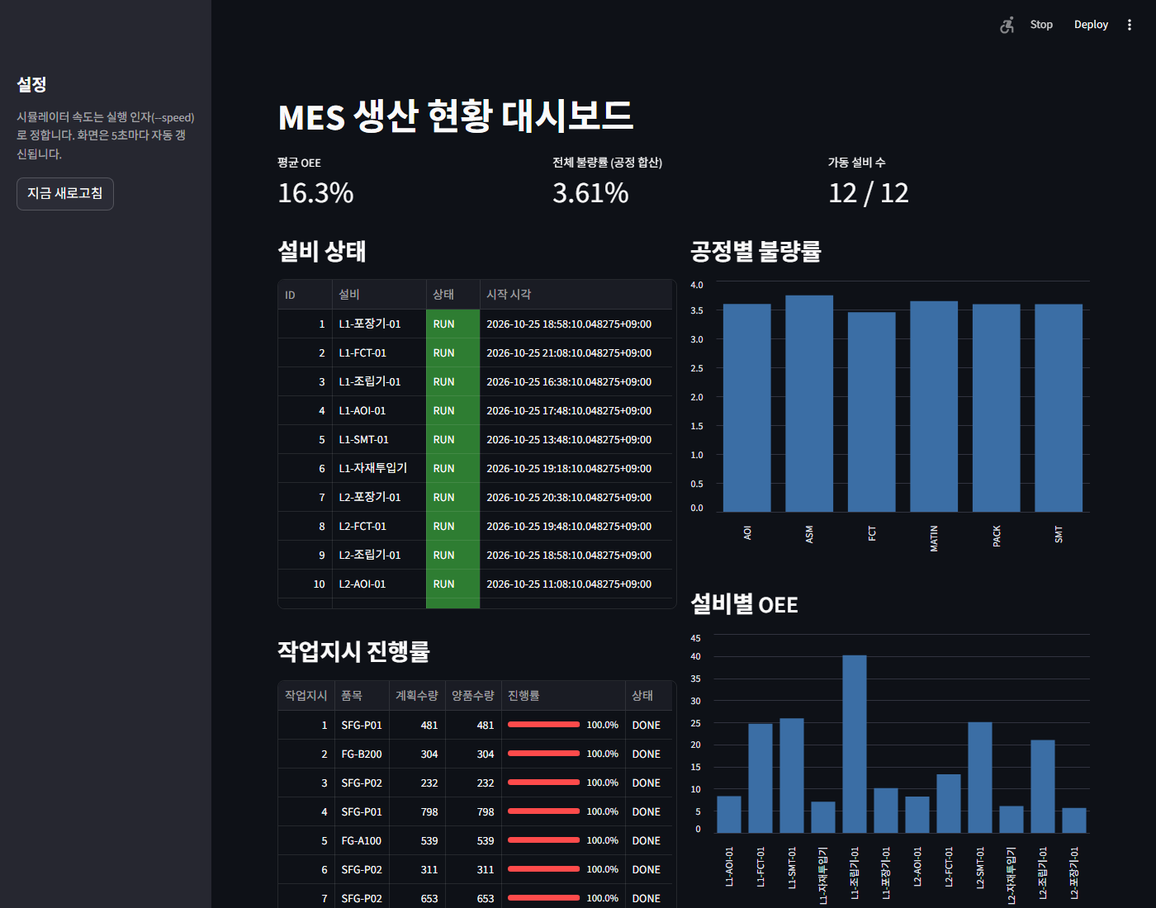
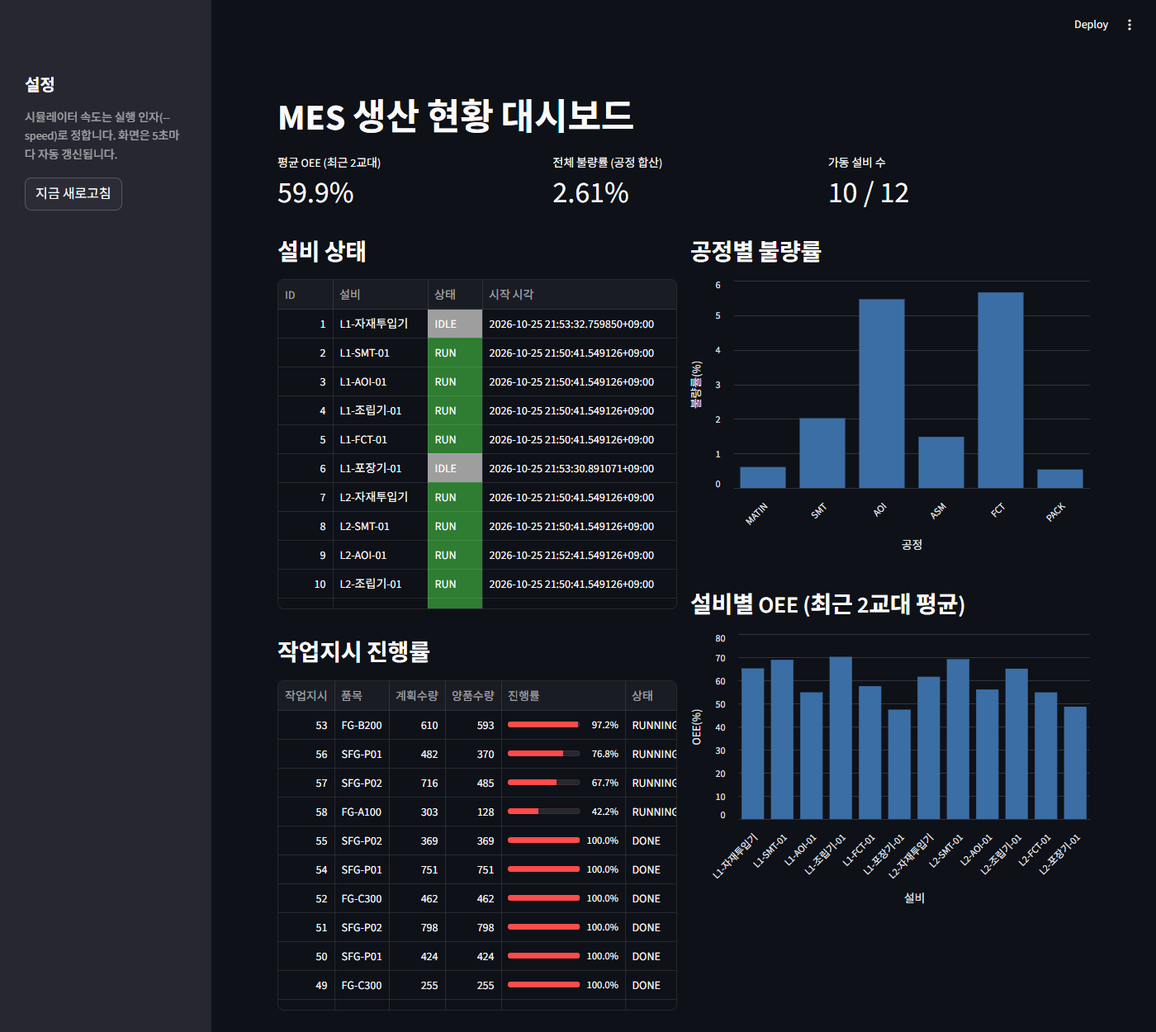
docs: README/ERD for clock rule, time zone, lineage, OEE scope; new screenshot
- README: simulator clock semantics, Asia/Seoul time zone, FIFO lineage,
  corrected OEE limitation text, LOT examples from the final demo run
- ERD: effective shift window (now() cap), NULL quality, one-open-log index,
  simulator model and genealogy rules
- dashboard: keep every x-axis label (labelOverlap=False); retaken screenshot

Changed region(s): [[0.2457, 0.0927, 0.9521, 1.0], [0.0, 0.0618, 0.1843, 0.2164], [0.8907, 0.0, 0.9521, 0.0309]]

diff --git a/dashboard/app.py b/dashboard/app.py
@@ -48,7 +48,7 @@ def render_kpis(kpi: dict) -> None:
 def _bar(df: pd.DataFrame, x: str, x_title: str, y_title: str) -> alt.Chart:
     """막대 차트. x 축은 SQL 이 정한 행 순서(라인 → 공정 순)를 그대로 쓴다 (알파벳 정렬 방지)."""
     return (alt.Chart(df).mark_bar(color=BAR_COLOR)
-            .encode(x=alt.X(f"{x}:N", sort=None, title=x_title, axis=alt.Axis(labelAngle=-45)),
+            .encode(x=alt.X(f"{x}:N", sort=None, title=x_title, axis=alt.Axis(labelAngle=-45, labelOverlap=False)),
                     y=alt.Y("v:Q", title=y_title),
                     tooltip=[alt.Tooltip(f"{x}:N", title=x_title),
                              alt.Tooltip("v:Q", title=y_title, format=".1f")]))

diff --git a/README.md b/README.md
@@ -33,7 +33,7 @@ flowchart LR
 
 ![MES 대시보드](docs/screenshots/dashboard.png)
 
-시뮬레이터(`--once 300`, 속도 600배)로 채운 뒤 캡처한 실제 화면입니다(가상 데이터). 설비 상태, 작업지시 진행률, 공정별 불량률, 설비별 OEE 와 상단 KPI 카드가 보입니다. 화면 하단에 LOT 추적 입력란이 더 있습니다.
+시뮬레이터로 약 50시간(`--once 300`, 틱 10분)을 채운 뒤 연속 모드(`--speed 60`)를 켜둔 상태에서 캡처한 실제 화면입니다(가상 데이터). 상단 KPI 카드(최근 2교대 평균 OEE, 전체 불량률, 가동 설비 수), 설비 상태(라인 → 공정 순), 작업지시 진행률(진행 중 우선), 공정별 불량률, 설비별 OEE 가 보입니다. 화면 하단에 LOT 추적 입력란이 더 있습니다.
 
 ## 프로젝트 구조
 
@@ -48,7 +48,7 @@ flowchart LR
 ├── dashboard/                     # Streamlit 앱(app.py)과 조회 함수(queries.py)
 ├── mes/db.py                      # DATABASE_URL 연결 헬퍼
 ├── scripts/                       # init_db.py, create_dbs.sql, docker_init_test_db.sh
-├── tests/                         # pytest 44개 (mes_test DB 사용)
+├── tests/                         # pytest 66개 (mes_test DB 사용)
 ├── docs/                          # erd.md, performance.md, screenshots/
 ├── docker-compose.yml             # PostgreSQL 16 (Docker 경로)
 ├── requirements.txt
@@ -75,6 +75,8 @@ docker compose up -d
 ```
 `docker-compose.yml` 이 `mes` 사용자/DB(비밀번호 `mes`)를 만들고, 최초 기동 시 `scripts/docker_init_test_db.sh` 가 `mes_test` DB 를 추가합니다.
 
+**시간대**: 교대(주간 08–20, 야간 20–08)는 한국 시간 기준입니다. `postgres` Docker 이미지의 기본 시간대는 UTC 이므로 `docker-compose.yml` 에서 `TZ`/`PGTZ`/`timezone` 을 `Asia/Seoul` 로 고정했고, `scripts/create_dbs.sql`·Docker 초기화 스크립트도 두 DB 의 기본 시간대를 `Asia/Seoul` 로 설정합니다. 무엇보다 `mes/db.py` 의 `connect()` 가 세션마다 `TimeZone = Asia/Seoul` 을 지정하므로, 서버 설정과 관계없이 시뮬레이터의 교대 배정과 뷰의 교대 창 계산이 같은 시간대를 씁니다. 시뮬레이터도 시각을 KST(UTC+9)로 다룹니다.
+
 ### 2. Python 패키지
 ```powershell
 pip install -r requirements.txt
@@ -96,9 +98,9 @@ export DATABASE_URL=postgresql://mes:mes@localhost:5432/mes
 # (1) 스키마·시드 적용. --reset 은 public 스키마를 DROP 후 다시 만든다 (개발 DB 데이터 삭제)
 python scripts/init_db.py --reset
 
-# (2) 데이터 채우기: 빠르게 300틱(속도 600배)을 한 번에 채우고 종료
+# (2) 데이터 채우기: 지금까지의 약 50시간(10분 틱 300개)을 한 번에 채우고 종료
 python -m simulator.simulate --speed 600 --seed 42 --once 300
-#     또는 실시간에 가깝게 계속 적재 (Ctrl+C 로 중단, 실 1초당 시뮬 1분)
+#     또는 계속 적재 (Ctrl+C 로 중단): 현재 교대 시작(또는 DB 마지막 시각)부터 60배속으로 따라잡은 뒤 실시간 진행
 python -m simulator.simulate --speed 60 --seed 42
 
 # (3) 대시보드 (시뮬레이터를 켜둔 채 다른 터미널에서)
@@ -109,15 +111,25 @@ pytest
 ```
 `python` 이 동작하지 않는 환경(예: Windows 스토어 스텁)에서는 설치된 Python 의 전체 경로로 실행합니다.
 
-시뮬레이터 옵션: `--speed`(시뮬 시간/실시간 배율, 기본 60), `--seed`, `--once N`(N틱 실행 후 종료), `--tick`(실시간 틱 간격 초, 기본 1). 상태는 모두 DB 에 있어 재시작하면 DB 의 마지막 시각 이후부터 이어서 동작합니다.
+시뮬레이터 옵션: `--speed`(기본 60), `--seed`, `--once N`, `--tick`(기본 1초). 시계 규칙은 다음과 같습니다.
+
+- **시뮬 시각은 현재 시각(벽시계)을 넘지 않습니다.** 미래 시각의 데이터는 만들지 않으므로 대시보드 지표가 실제 시각과 어긋나지 않습니다.
+- 틱 길이 = `--tick x --speed` 시뮬 초 (기본 60초, `--speed 600` 이면 10분).
+- 시작점: 빈 DB 에서 `--once N` 은 "지금 - N틱" 부터 시작해 마지막 틱이 지금이 되고, 연속 모드는 현재 교대 시작 시각부터 채웁니다. DB 에 데이터가 있으면 마지막 시각부터 이어 갑니다.
+- 연속 모드: 현재 시각보다 뒤처져 있는 동안은 실시간 `--tick` 초마다 한 틱씩(= `--speed` 배속) 따라잡고, 따라잡은 뒤에는 실제 시간이 한 틱 길이만큼 흐를 때마다 한 틱을 진행합니다. 즉 `--speed` 는 따라잡는 속도와 틱 길이만 정합니다.
+- `--once N`: 최대 N틱을 기다림 없이 실행하고, 현재 시각에 닿으면 더 일찍 끝냅니다(예: 방금 채운 DB 에서 다시 실행하면 진행할 틱이 없음).
+- 정지: 정상 종료·Ctrl+C 시 진행 중 설비 로그를 마지막 시뮬 시각에 닫고 IDLE 로 남깁니다. 멈춰 있는 동안 RUN 시간이 쌓이지 않습니다(가동률은 정지 시간만큼 내려감). 오래 멈춘 뒤(마지막 시각이 시작점 이전) 재시작하면 마지막 시각에 설비를 정지 처리하고 시작점부터 새로 채웁니다. 프로세스를 강제 종료한 경우에는 `python -m simulator.simulate --once 1 --speed 600` 을 한 번 실행하면 진행할 틱 없이 정지 처리만 하고 끝납니다.
 
 `pytest` 는 `mes_test` DB 만 사용하며(세션 시작 시 그 DB 의 public 스키마를 비움), 개발 DB 는 건드리지 않습니다. 테스트는 `mes` 롤이 `mes_test` 에 접속할 수 있어야 하므로 1단계의 DB 생성이 필요합니다.
 
-LOT 추적을 해보려면 대시보드 화면 하단 "LOT 번호" 칸에 실제 LOT 번호를 넣습니다. 번호 형식은 생산 LOT `WO-<작업지시>-<공정코드>-<순번>`(예: `WO-26-PACK-10`), 원자재 LOT `RM-<품목코드>-WO<작업지시>`(예: `RM-RM-IC-WO1`)입니다. 직접 조회할 수도 있습니다.
+LOT 추적을 해보려면 대시보드 화면 하단 "LOT 번호" 칸에 실제 LOT 번호를 넣습니다. 번호 형식은 생산 LOT `WO-<작업지시>-<공정코드>-<순번>`(예: `WO-2-PACK-1`), 원자재(공급사) LOT `<품목코드>-<순번 4자리>`(예: `RM-IC-0001`)입니다. 직접 조회할 수도 있습니다.
 ```sql
-SELECT * FROM trace_backward('WO-26-PACK-10') ORDER BY depth, lot_no;
+-- 완제품 포장 LOT 의 투입 이력: 기능검사 → 조립 → AOI 를 통과한 반제품 LOT 2종 → SMT → 자재투입 → 원자재 공급사 LOT
+SELECT * FROM trace_backward('WO-2-PACK-1') ORDER BY depth, lot_no;
+-- 원자재 LOT 리콜 범위: 이 공급사 LOT 이 들어간 모든 하위 LOT
+SELECT * FROM trace_forward('RM-IC-0001') ORDER BY depth, lot_no;
 ```
-(LOT 번호는 시뮬레이터 실행마다 달라질 수 있으니 `SELECT lot_no FROM lot LIMIT 10;` 으로 확인하세요.)
+위 예시는 README 작성 시 데모 실행(`--seed 42 --once 300`)에서 확인한 값입니다. `trace_backward('WO-2-PACK-1')` 은 15행(depth 1–6)을 반환했고, depth 3 의 반제품 LOT 는 모두 AOI 공정 LOT(`WO-1-AOI-1`, `WO-3-AOI-1`)였습니다. `trace_forward('RM-IC-0001')` 은 생산 LOT 약 2,950개 중 1,088개를 반환했습니다(공급사 LOT 1개가 쓰인 기간의 하위 LOT 만). 시작 시각이 실행 시점에 따라 달라 LOT 번호와 행 수는 달라질 수 있으니 `SELECT lot_no FROM lot LIMIT 10;` 으로 확인하세요.
 
 ## SQL 하이라이트
 
@@ -156,18 +168,20 @@ select distinct on (l.lot_id) l.lot_no, i.item_code, l.supplier_lot_no, w.depth
 ```
 
 ### 3. OEE 뷰 — [`sql/04_views.sql`](sql/04_views.sql)
-`v_oee_daily` 는 설비 x 교대 x work_date 단위로 OEE = 가동률 x 성능률 x 품질률 을 계산합니다. 야간조의 자정 이후 구간은 교대가 시작된 전날 work_date 에 귀속시키고, 계획 비가동(점심·점검)은 계획시간에서 빼며, 교대 경계를 걸친 로그는 교대별로 잘라 계산합니다. 핵심 비율 계산부는 다음과 같습니다.
+`v_oee_daily` 는 설비 x 교대 x work_date 단위로 OEE = 가동률 x 성능률 x 품질률 을 계산합니다. 야간조의 자정 이후 구간은 교대가 시작된 전날 work_date 에 귀속시키고, 계획 비가동(점심·점검)은 계획시간에서 빼며, 교대 경계를 걸친 로그는 교대별로 잘라 계산합니다. 진행 중인 교대는 교대 창 끝 대신 `now()` 까지만 계획시간으로 보므로(유효 창 `LEAST(교대 끝, now())`), 교대 초반에도 가동률이 낮게 왜곡되지 않습니다. 생산수량이 0 인 행의 품질률은 정의되지 않으므로 NULL 입니다. 핵심 비율 계산부는 다음과 같습니다.
 
 ```sql
-SELECT e.equipment_id, e.name AS equipment_name, a.shift_name, a.work_date,
+SELECT e.equipment_id, e.name AS equipment_name, a.shift_name, a.work_date, a.wstart, a.wend,
        LEAST(1, COALESCE(a.run_sec / NULLIF(a.shift_sec - a.planned_down_sec, 0), 0)) AS availability,
        COALESCE(r.ideal_sec / NULLIF(a.run_sec, 0), 0)                      AS performance,
-       COALESCE(r.good_qty / NULLIF(r.good_qty + r.defect_qty, 0), 0)       AS quality
+       r.good_qty / NULLIF(r.good_qty + r.defect_qty, 0)                    AS quality
 FROM agg a
 JOIN equipment e ON e.equipment_id = a.equipment_id
 LEFT JOIN res r ON r.equipment_id = a.equipment_id AND r.shift_id = a.shift_id
                AND r.work_date = a.work_date
 ```
+
+대시보드의 "평균 OEE" 카드와 설비별 OEE 차트는 데이터가 있는 **최근 2개 교대 창(24시간)** 의 설비 x 교대 행 평균입니다(`dashboard/queries.py`, SQL 의 WHERE 로 범위 지정). 시뮬레이션 시작 무렵 일부만 덮인 첫 교대처럼 오래된 행이 평균을 왜곡하지 않게 하기 위해서입니다.
 
 같은 파일에 불량률·FTY(`v_defect_rate`), 작업지시 진행률(`v_wo_progress`), 설비 현재 상태(`v_equipment_current`)도 있습니다.
 
@@ -177,16 +191,17 @@ KPI 뷰에 실적 100,000행을 적재해 측정했습니다. `v_oee_daily` 가 
 
 ## 테스트
 
-`pytest` 44개 (`tests/`): 스키마·제약, 트리거(backflush, 초과생산, 재고 부족 롤백, 상태 전이), LOT 추적(순환 포함), 뷰(고정 시나리오, 야간조 귀속, 교대 경계 분할, 0 나눔), 시뮬레이터(seed 재현성, 재시작 멱등성, 재고 고갈), 대시보드 조회 함수.
+`pytest` 66개 (`tests/`): 스키마·제약(설비당 진행 중 로그 1개, 설비 ID 순서), 세션 시간대, 트리거(backflush, 초과생산, 재고 부족 롤백, 재고 행 없음 거부, 상태 전이), LOT 추적(순환 포함), 뷰(고정 시나리오, 야간조 귀속, 교대 경계 분할, 진행 중 교대의 now() 캡, 0 나눔·품질률 NULL), 시뮬레이터(seed 재현성, 라인별 작업지시, 일감 없을 때 자재대기, 완전한 교대의 성능률·OEE 범위, 검사 공정 불량 집중, LOT 계보가 라우팅을 따르는지, 교대 경계 실적 분할, 시계 규칙, 정지 처리, CLI 가 미래 시각을 쓰지 않는지), 대시보드 조회 함수(정렬, 최근 2교대 범위).
 
 ## 한계와 비목표
 
 - **가상 데이터 기반**: 실제 PLC/OPC-UA 등 설비 연동은 없고 시뮬레이터가 대신합니다. 인증/권한, 멀티 사이트, 클라우드 배포, APS(스케줄링), ERP 연동은 범위 밖입니다.
 - **입력 UI 없음**: 작업지시 등록·실적 입력 화면은 없습니다. 대시보드는 조회 전용입니다(LOT 추적 입력란 제외).
 - **재고 규칙 단순화**: 소요 자재는 첫 공정에서 BOM 직계 자식만 차감하고, 결과물은 마지막 공정에서만 가산합니다. 단일 창고, 품목당 1행입니다.
-- **LOT 계보는 휴리스틱**: 시뮬레이터가 "같은 작업지시의 직전 공정 최신 LOT" 를 부모로 연결하므로 실제 물리적 투입 관계를 정밀하게 반영하지 않습니다. 개별 시리얼 번호 추적은 제외했습니다.
+- **LOT 계보는 시뮬레이터 규칙**: 시뮬레이터가 실제 투입량을 선입선출(FIFO)로 LOT 에 할당해 계보를 만듭니다. 완제품 조립은 반제품 라우팅의 마지막 공정(AOI)을 통과한 LOT 만, 후공정은 같은 작업지시의 바로 앞 공정 LOT 만, 첫 공정은 원자재 공급사 LOT(1만 개 단위, 여러 작업지시가 나눠 씀)를 투입합니다. 실제 현장의 바코드 스캔 같은 투입 실적이 아니라 규칙으로 만든 계보이며, 개별 시리얼 번호 추적은 제외했습니다. 원자재 LOT 는 계보용이며 재고 수량(`inventory`)과는 별도로 관리합니다.
 - **FTY 는 공장 전체 단일 값**: 6개 공정의 `양품/투입` 곱이며 제품별 실제 경로 수율이 아닙니다.
 - **OEE 성능률은 캡이 없습니다**: 시뮬레이터 데이터에서는 이상 사이클 대비 속도를 75–98%로 뽑지만, 실제 데이터에서 100%를 넘으면 그대로 나옵니다. 가동률만 최대 1로 캡합니다.
-- **OEE 수치는 데모용**: `--once` 로 짧은 구간에 몰아 채우면 교대 길이(12시간) 대비 데이터가 적어 OEE 값이 낮게 나옵니다. 값 자체에 의미를 두지 마세요. (가동률 분모는 항상 교대 전체 길이인데 시뮬레이션 구간은 교대 일부만 덮을 수 있기 때문입니다.)
+- **OEE 수치는 시뮬레이터 모델의 결과**: 데모 실행(`--once 300`)의 최근 2교대 평균 OEE 는 약 60%(가동률 약 72%, 성능률 약 86%, 품질률 약 97%)입니다. 가동률 손실은 대부분 자재대기(전공정 재공·반제품 재고·작업지시 교체 대기)이고 나머지는 고장·순간정지입니다. 시뮬레이터는 일감이 없는 설비를 RUN 이 아니라 IDLE(자재대기, 비계획)로 기록하고, 라인마다 SFG·FG 작업지시를 하나 이상 유지하며, 공정별 이상 사이클을 비슷하게 맞춰 두었습니다(`sql/02_seed.sql`). 시뮬레이션이 시작된 첫 교대는 시작 시각 이전 구간에 기록이 없어 가동률이 매우 낮게 나오므로 KPI 카드와 차트는 최근 2교대만 집계합니다(뷰 `v_oee_daily` 자체에는 모든 행이 있습니다).
+- **시뮬레이터를 멈춘 동안**: 진행 중인 교대의 계획시간은 `now()` 까지 늘어나므로, 시뮬레이터를 멈춘 채 시간이 지나면 현재 교대의 가동률이 그만큼 내려갑니다(정지 처리된 IDLE 시간). 실제 공장에서 설비가 멈춘 것과 같은 해석입니다.
 - **Docker 경로 미검증**: 작성자 환경에 Docker 가 없어 `docker-compose.yml` 은 직접 실행해 보지 못했습니다.
 - 성능 측정은 단일 로컬 인스턴스의 수치입니다.

diff --git a/docs/erd.md b/docs/erd.md
@@ -150,11 +150,13 @@ erDiagram
 - **마스터**: `item`, `bom`, `process`, `routing`, `line`, `equipment`, `shift`, `downtime_reason`, `defect_code`
 - **트랜잭션**: `work_order`, `lot`, `lot_consumption`, `production_result`, `defect_record`, `equipment_status_log`, `inventory`, `inventory_txn`
 - `bom`: FG → SFG → RM 2단계 (시드: 완제품 3, 반제품 2, 원자재 5).
-- `routing`: 품목별 공정 순서와 `ideal_cycle_sec`(개당 이상 사이클타임). 시드에서 SFG 는 자재투입→SMT→AOI검사, FG 는 조립→기능검사→포장.
+- `routing`: 품목별 공정 순서와 `ideal_cycle_sec`(개당 이상 사이클타임). 시드에서 SFG 는 자재투입→SMT→AOI검사(8–12초), FG 는 조립→기능검사→포장(16–30초). 같은 품목의 공정별 사이클은 비슷하게 맞추고 SMT·조립을 약간 느린 병목으로 두었다(라인 밸런싱).
 - `lot_consumption`: `parent_lot_id` 가 투입된 LOT, `child_lot_id` 가 만들어진 LOT 인 계보 테이블 (LOT 추적의 간선).
 - `lot`: 원자재 입고 LOT 는 `wo_id`/`process_id` 가 NULL 이고 `supplier_lot_no` 를 가진다.
 - 시드 규모: 설비 12대 (라인 2 x 공정 6), 교대 2개 ([`sql/02_seed.sql`](../sql/02_seed.sql)).
 - 조회용 인덱스 5개: `production_result(equipment_id, started_at)`, `production_result(wo_id)`, `lot_consumption(parent_lot_id)`, `lot_consumption(child_lot_id)`, `equipment_status_log(equipment_id, started_at)`.
+- 무결성 인덱스: `ux_equipment_status_log_one_open` — `equipment_status_log(equipment_id) WHERE ended_at IS NULL` 부분 유니크 인덱스. 설비당 진행 중 상태 로그는 최대 1개.
+- 설비 시드는 라인 → 공정 순서(`ORDER BY line, process.seq`)로 넣어 `equipment_id` 가 공정 흐름 순서를 따른다 (L1-자재투입기 = 첫 번째).
 
 ## 지표 정의
 
@@ -168,15 +170,18 @@ erDiagram
 |---|---|
 | 가동률 (availability) | `가동시간 / 계획시간`, 최대 1로 캡 (`LEAST(1, ...)`) |
 | 성능률 (performance) | `Σ(ideal_cycle_sec x (양품+불량)) / 가동시간(초)`, 상한 캡 없음 |
-| 품질률 (quality) | `양품 / (양품+불량)` |
-| OEE | `가동률 x 성능률 x 품질률` |
+| 품질률 (quality) | `양품 / (양품+불량)`, 생산수량 0 이면 NULL |
+| OEE | `가동률 x 성능률 x COALESCE(품질률, 0)` |
 
-- **가동시간**: `RUN` 상태 로그가 교대 창과 겹치는 시간의 합. `ended_at IS NULL`(진행 중)은 `now()` 까지로 보되 교대 창 끝을 넘지 않는다. 교대 경계를 걸치는 로그는 교대별로 잘라 계산한다.
-- **계획시간**: `교대길이 - 계획 비가동`. 계획 비가동은 `downtime_reason.is_planned = true` 사유가 붙은 비-RUN 로그의 교대 창 내 겹침 시간이다(점심, 정기점검). 비계획 정지(설비고장, 자재대기)와 사유 없는 IDLE 은 계획시간에서 빼지 않으므로 가동률을 낮춘다.
+- **유효 창**: 교대 창 `[교대 시작, 교대 끝]` 을 `now()` 에서 자른 `[교대 시작, LEAST(교대 끝, now())]`. 이미 끝난 교대는 교대 창 그대로, 진행 중인 교대는 지금까지의 구간만 본다.
+- **가동시간**: `RUN` 상태 로그가 유효 창과 겹치는 시간의 합. `ended_at IS NULL`(진행 중)은 `now()` 까지. 교대 경계를 걸치는 로그는 교대별로 잘라 계산한다.
+- **계획시간**: `유효 창 길이 - 계획 비가동`. 계획 비가동은 `downtime_reason.is_planned = true` 사유가 붙은 비-RUN 로그의 유효 창 내 겹침 시간이다(점심, 정기점검). 비계획 정지(설비고장, 자재대기)와 사유 없는 IDLE 은 계획시간에서 빼지 않으므로 가동률을 낮춘다.
 - **이상 사이클타임**: 작업지시 품목과 설비 공정의 `routing.ideal_cycle_sec`. 라우팅에 없으면 기여 0.
-- **분모가 0이면** 해당 비율은 0 (`NULLIF`/`COALESCE`), 오류 없음.
-- **교대와 work_date 규칙**: 시드의 주간 08:00–20:00, 야간 20:00–08:00. `work_date` 는 교대가 **시작한** 달력 날짜다. 야간조의 자정 이후 구간(00:00–08:00)은 전날 `work_date` 에 속한다. 교대 창은 `work_date + start_time` 부터 교대길이(12시간)이며 `end_time <= start_time` 이면 익일로 넘어간다.
-- 날짜/시각 변환은 세션 `TimeZone` 기준이다.
+- **품질률 NULL**: 상태 로그만 있고 실적이 없는 행은 품질률이 정의되지 않으므로 NULL (평균 품질률을 0 으로 끌어내리지 않음). 이때 성능률은 0 이므로 OEE 는 0.
+- **그 밖에 분모가 0이면** 해당 비율은 0 (`NULLIF`/`COALESCE`), 오류 없음.
+- **교대와 work_date 규칙**: 시드의 주간 08:00–20:00, 야간 20:00–08:00. `work_date` 는 교대가 **시작한** 달력 날짜다. 야간조의 자정 이후 구간(00:00–08:00)은 전날 `work_date` 에 속한다. 교대 창은 `work_date + start_time` 부터 교대길이(12시간)이며 `end_time <= start_time` 이면 익일로 넘어간다. 뷰의 `shift_start`/`shift_end` 열이 교대 창(캡 적용 전)이다.
+- **시간대**: 날짜/시각 변환은 세션 `TimeZone` 기준이며, `mes.db.connect()` 가 세션마다 `Asia/Seoul` 로 고정한다(서버·Docker 기본값 UTC 와 무관). `scripts/create_dbs.sql` 과 Docker 초기화 스크립트도 DB 기본 시간대를 `Asia/Seoul` 로 둔다.
+- **대시보드 집계 범위**: KPI 카드의 평균 OEE 와 설비별 OEE 차트는 `shift_end > max(shift_end) - 24시간`, 즉 데이터가 있는 최근 2개 교대 창의 행 평균이다.
 
 ### 불량률과 FTY (`v_defect_rate`)
 - 공정별: `input_qty = 양품+불량`, `defect_rate = 불량 / 투입` (투입 0 이면 0).
@@ -194,6 +199,7 @@ erDiagram
 - **마지막 공정**(LAST/BOTH)의 실적에서만 생산 품목 재고를 `양품` 만큼 증가시킨다 (delta 양수).
 - 중간 공정은 재고 이동 없이 실적만 기록한다.
 - 재고 부족은 `inventory.qty >= 0` CHECK 위반으로 드러나 해당 INSERT 전체가 롤백된다.
+- 품목의 재고 행이 없으면(UPDATE 0행) `재고 행이 없습니다` 예외로 INSERT 전체를 거부한다. 원장(`inventory_txn`)만 쌓이고 잔고가 어긋나는 일을 막는다.
 - 작업지시 상태: 첫 실적에서 `PLANNED → RUNNING`, 마지막 공정 누적 양품이 계획 이상이면 `DONE`.
 - 초과생산 방지(`trg_production_result_bi`, BEFORE INSERT): 마지막 공정의 누적 양품 + 신규 양품이 `planned_qty` 를 넘으면 예외. 같은 작업지시 행을 `FOR UPDATE` 로 잠가 동시 입력의 경쟁 상태를 막는다.
 
@@ -206,8 +212,20 @@ erDiagram
 - **순환 방지**: 방문 경로를 배열(`path`)로 들고 다니며 이미 방문한 LOT 는 재방문하지 않는다 (`child_lot_id <> ALL(path)`). 순환 데이터가 있어도 종료한다 (`tests/test_lot_trace.py::test_cycle_does_not_hang`).
 - 없는 `lot_no` 는 0행.
 
-### 시뮬레이터가 만드는 계보의 단순화
-시뮬레이터는 첫 공정 LOT 의 부모로 BOM 자식(원자재는 작업지시당 1개 LOT 재사용, 반제품은 해당 품목의 최신 LOT)을, 이후 공정 LOT 의 부모로 같은 작업지시의 직전 공정 최신 LOT 를 연결한다. 실제 물리적 투입 LOT 를 추적한 것이 아니라 "최신 LOT" 휴리스틱이므로 추적 결과는 데모용 계보다.
+### 시뮬레이터가 만드는 계보
+시뮬레이터는 실적마다 실제 투입량(`(양품+불량) x qty_per`)을 잔량이 있는 LOT 에 **선입선출(FIFO)** 로 할당하고, 할당량을 `lot_consumption.qty` 로 기록한다. 어떤 LOT 도 자기 수량(`lot.qty` = 양품)보다 많이 투입되지 않는다.
+- **첫 공정의 반제품 투입**(완제품 조립): 그 반제품 품목 라우팅의 **마지막 공정**(AOI 검사)을 통과한 LOT 만 투입한다. 자재투입·SMT 단계의 미검사 LOT 는 연결되지 않는다.
+- **첫 공정의 원자재 투입**: 공급사 LOT(`<품목코드>-<순번 4자리>`, 예 `RM-IC-0001`, 1만 개 단위, `supplier_lot_no` 보유, `wo_id` NULL)를 여러 작업지시가 나눠 쓰고, 잔량이 모자라면 새 공급사 LOT 를 만든다.
+- **이후 공정**: 같은 작업지시의 바로 앞 공정 LOT.
+- `tests/test_simulator.py::test_lot_genealogy_follows_routing` 이 위 규칙을 검증한다. 실제 바코드 투입 실적이 아니라 규칙으로 만든 계보이며, 원자재 LOT 는 계보용이고 재고 수량과는 별도다.
+
+### 시뮬레이터 동작 모델 (요약)
+- 일감(작업지시 투입 가능 수량: 첫 공정은 계획 x 115%와 BOM 재고, 후공정은 전공정 재공, 마지막 공정은 계획 잔량)이 없으면 설비는 RUN 이 아니라 **IDLE(자재대기, 비계획)** 로 기록되고, 일감이 생기면 바로 RUN 으로 돌아간다. 틱 도중 일감이 떨어지면 그 시각에 RUN 을 끝낸다.
+- 라인마다 SFG 작업지시와 FG 작업지시를 하나 이상 유지한다(두 라우팅의 공정이 겹치지 않으므로). 반제품 품목은 재고 + 진행 중 계획수량이 적은 것을 고른다.
+- 고장·순간정지·정기점검·점심은 시간당 발생률로 정의해 틱 길이(60초/600초)와 무관하게 같은 빈도로 일어난다.
+- 불량률은 검사 공정(AOI 4–7%, 기능검사 4–7%)에 집중되고 나머지 공정은 0.2–3% 이다.
+- 틱이 교대 경계를 걸치면 실적을 경계에서 나눈다(실적의 교대 = 실적 시작 시각의 교대).
+- 작업지시의 `created_at`/`due_date` 는 시뮬 시각 기준이다. 시뮬 시각은 현재 시각을 넘지 않는다(README 의 시계 규칙).
 
 ### 그 외 규칙
 - 설비 12대 모두 라인 x 공정 조합으로 하나씩 존재 (`tests/test_schema.py` 로 검증).
